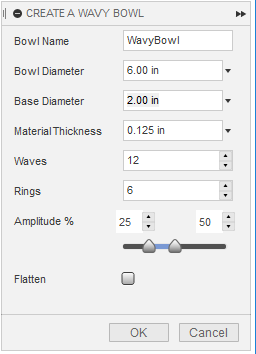
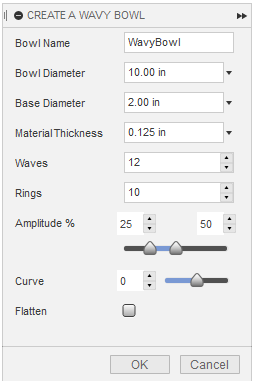
Add a new option to vary the size of the rings.

diff --git a/WavyBowl.py b/WavyBowl.py
@@ -12,6 +12,7 @@ defaultWaves = 12
 defaultRings = 10
 defaultAmplitudeStartPct = 25
 defaultAmplitudeEndPct = 50
+defaultCurve = 0
 
 # global set of event handlers to keep them referenced for the duration of the command
 handlers = []
@@ -58,6 +59,8 @@ class WavyBowlCommandExecuteHandler(adsk.core.CommandEventHandler):
                     bowl.amplitudeEndPct = input.valueTwo
                 elif input.id == 'renderFlat':
                     bowl.renderFlat = input.value
+                elif input.id == 'curve':
+                    bowl.curve = input.valueOne
 
             bowl.buildWavyBowl()
             args.isValidResult = True
@@ -117,6 +120,9 @@ class WavyBowlCommandCreatedHandler(adsk.core.CommandCreatedEventHandler):
             slider.valueOne = defaultAmplitudeStartPct
             slider.valueTwo = defaultAmplitudeEndPct
 
+            slider = inputs.addIntegerSliderCommandInput('curve', 'Curve', -75, 75)
+            slider.valueOne = defaultCurve
+
             inputs.addBoolValueInput('renderFlat', 'Flatten', True)
 
         except:
@@ -133,6 +139,7 @@ class WavyBowl:
         self._rings = defaultRings
         self._amplitudeStartPct = defaultAmplitudeStartPct
         self._amplitudeEndPct = defaultAmplitudeEndPct
+        self._curve = defaultCurve
         self._renderFlat = False
 
     #properties
@@ -193,6 +200,13 @@ class WavyBowl:
         self._amplitudeEndPct = value  
 
     @property
+    def curve(self):
+        return self._curve
+    @curve.setter
+    def curve(self, value):
+        self._curve = value  
+
+    @property
     def renderFlat(self):
         return self._renderFlat
     @renderFlat.setter
@@ -232,12 +246,18 @@ class WavyBowl:
         steps = self.waves * 4
         thetaStep = 2 * math.pi / steps
 
+        # Calculate the ring sizes for the bowl curve
+        startingRingSize = ringSize * (self.curve + 100) / 100
+        endingRingSize = (2 * ringSize) - startingRingSize
+        ringSizeStep = (endingRingSize - startingRingSize) / self.rings
+
+        radius = self.baseDiameter / 2
+
         for ring in range(0, self.rings + 1): # +1 since we need 2 circles to make 1 ring
             # Create an object collection for the points.
             points = adsk.core.ObjectCollection.create()
 
             # Define the points the spline with fit through.
-            radius = (self.baseDiameter/2) + (ring * ringSize)
             amplitude = ringSize * (self.amplitudeStartPct + (amplitudeStep * ring)) / 100
 
             # +1 to close the loop
@@ -249,6 +269,9 @@ class WavyBowl:
 
             # Create the spline.
             sketch.sketchCurves.sketchFittedSplines.add(points)
+
+            # Increment the radius for the next ring
+            radius += startingRingSize + (ring * ringSizeStep)
 
         # "globals" for the extrusions
         extrudes = newComp.features.extrudeFeatures

diff --git a/README.md b/README.md
@@ -19,6 +19,7 @@ I own a [Glowforge](https://glowforge.us/BHZAKLOU) laser cutter and was intrigue
 Most options should be obvious but a few notes:
 * Diameters are approximate - since the rings are waves, the diameter ends up as the middle of the wave.  Measure the result, if the outside diameter is important!
 * Amplitude % is the percentage of the ring width for the wave - basically, how wavy is it.  I found that it was needed to vary this across the bowl to get a pleasing shape, which is why there are two sliders.  The first is what the first ring will use, the second is for the last ring.
+* Curve: default is 0 which means all the rings are the same size.  The slider allows you to pick a percentage of size the first ring is from the average and then vary the size through the rings (the middle ring will be the same with all settings).  This gives the bowl more of a curve from the side view instead of the default 45 degree slope.  Definitely changes the look a bunch, sometimes not for the better.
 * Flatten: this allows for not stacking the resulting rings - depending on your method of exporting paths for laser cutting, this might be easier to use.
 * Be careful with the number of rings + waves you choose, processing time can get long...
 
